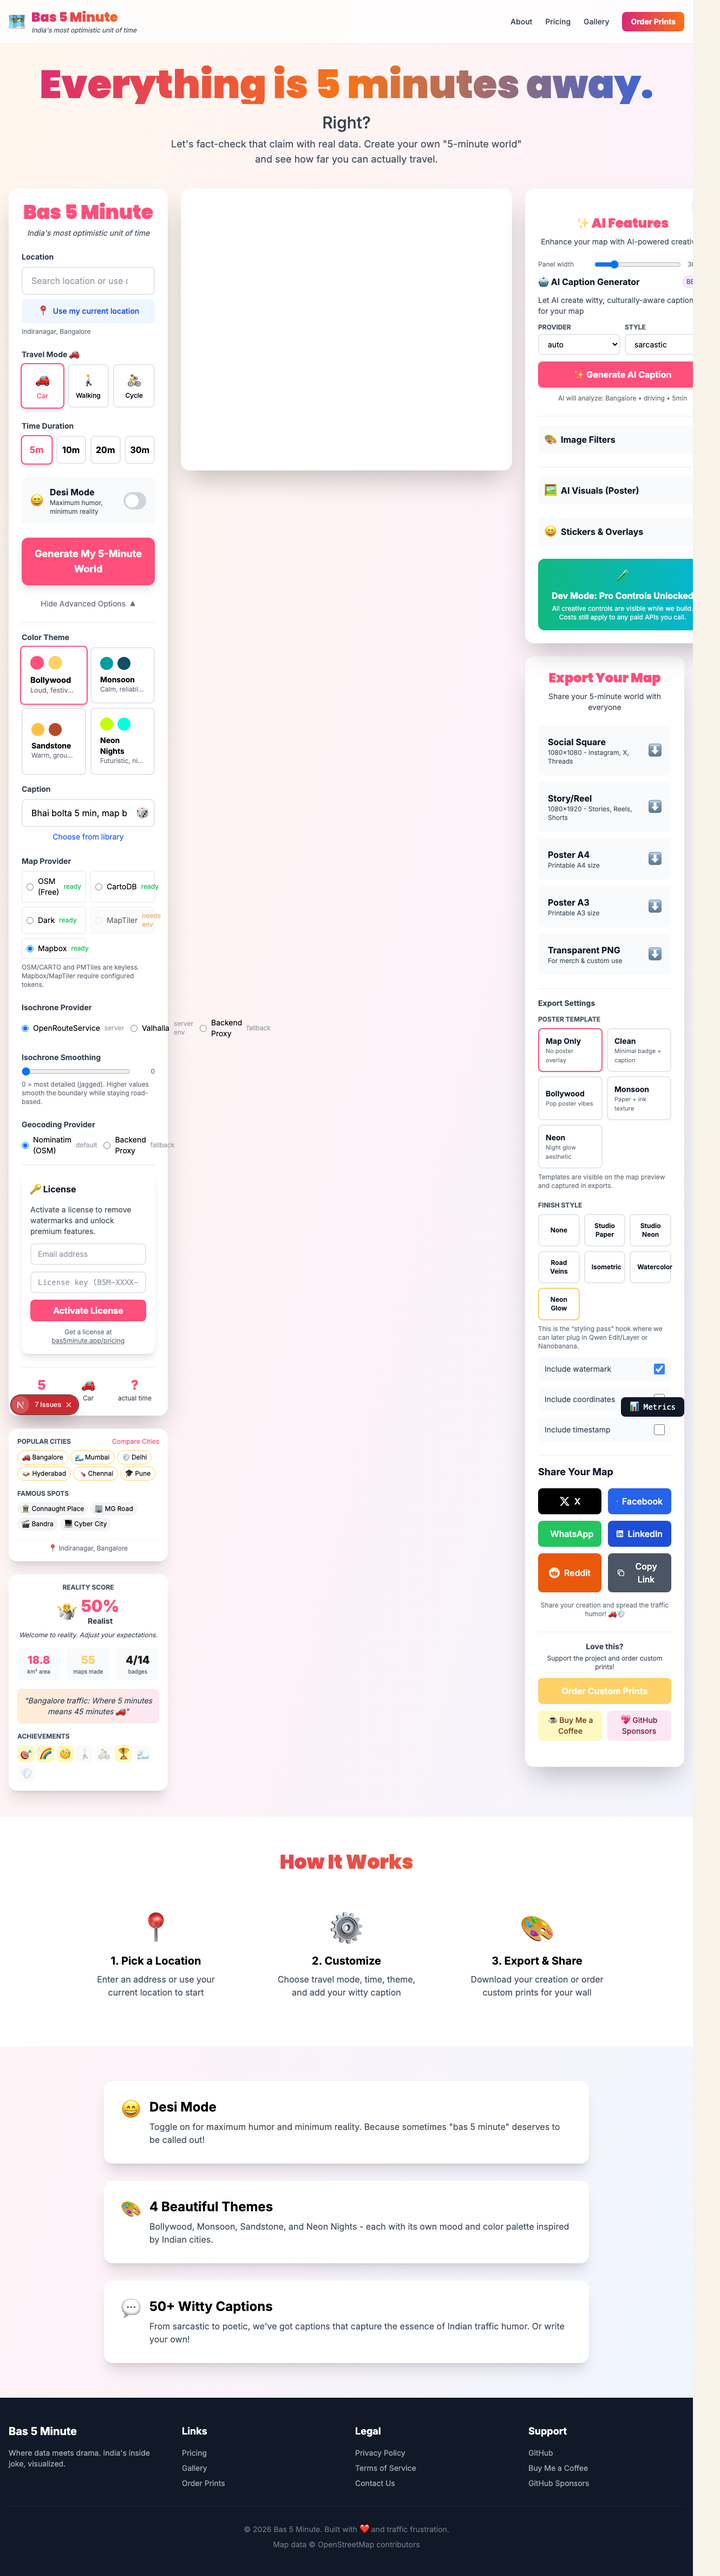
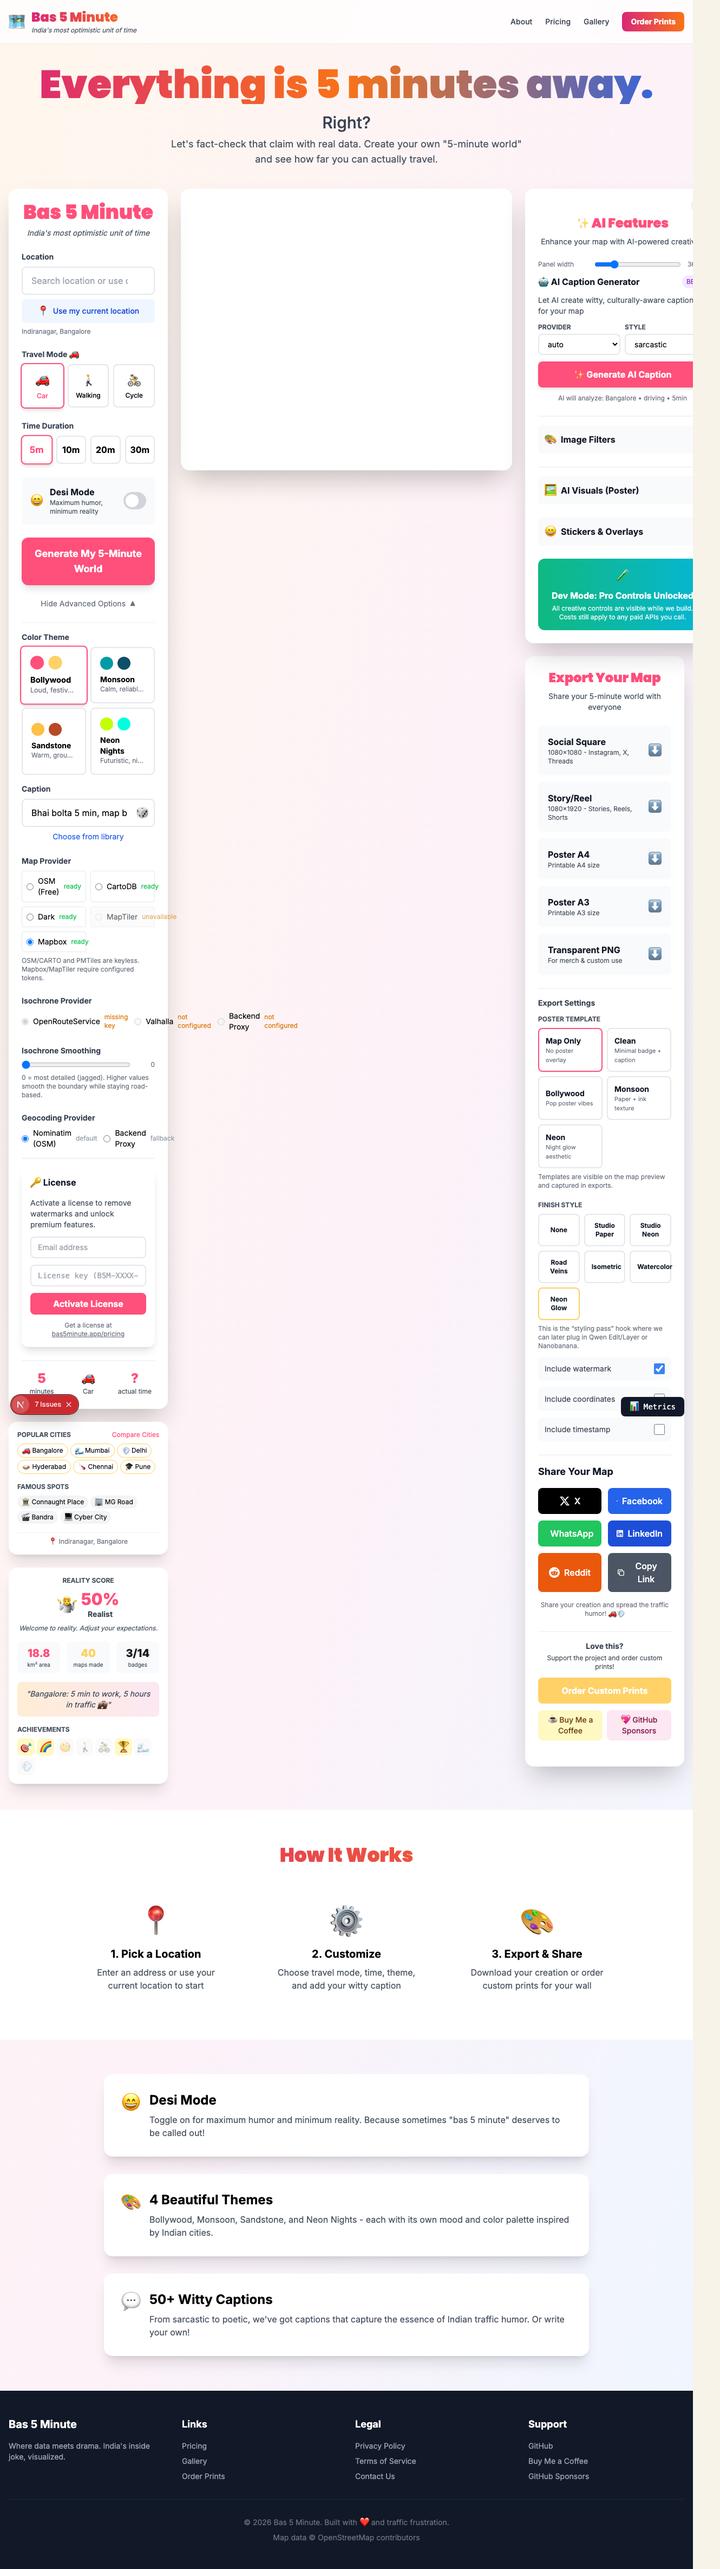
feat: add provider readiness UX, routing primary controls, and env-aware validation CI

diff --git a/components/ControlPanel.tsx b/components/ControlPanel.tsx
@@ -1,6 +1,6 @@
 'use client';
 
-import React, { useState } from 'react';
+import React, { useEffect, useState } from 'react';
 import { useMapContext } from '@/contexts/MapContext';
 import { LocationSearch } from './LocationSearch';
 import { ThemeSelector } from './ThemeSelector';
@@ -36,8 +36,27 @@ export function ControlPanel() {
   } = useMapContext();
 
   const [showAdvanced, setShowAdvanced] = useState(false);
+  const [health, setHealth] = useState<any>(null);
   const colors = getThemeColors(theme);
   const providerConfigs = getProviderConfigs(process.env.NEXT_PUBLIC_PMTILES_URL);
+
+  useEffect(() => {
+    let cancelled = false;
+    const loadHealth = async () => {
+      try {
+        const resp = await fetch('/api/health', { cache: 'no-store' });
+        if (!resp.ok) return;
+        const data = await resp.json();
+        if (!cancelled) setHealth(data);
+      } catch {
+        // keep UI functional even when health endpoint fails
+      }
+    };
+    loadHealth();
+    return () => {
+      cancelled = true;
+    };
+  }, []);
 
   const handleGenerate = async () => {
     if (!location) {
@@ -181,14 +200,8 @@ export function ControlPanel() {
             <label className="block text-sm font-bold text-gray-700">Map Provider</label>
             <div className="grid grid-cols-2 gap-2 text-sm">
               {providerConfigs.map((provider) => {
-                const requiresToken =
-                  provider.tokenEnv === 'NEXT_PUBLIC_MAPBOX_TOKEN'
-                    ? !process.env.NEXT_PUBLIC_MAPBOX_TOKEN
-                    : provider.tokenEnv === 'NEXT_PUBLIC_MAPTILER_KEY'
-                    ? !process.env.NEXT_PUBLIC_MAPTILER_KEY
-                    : false;
-
-                const disabled = provider.requiresToken && requiresToken;
+                const capability = health?.capabilities?.maps?.[provider.id] ?? true;
+                const disabled = !capability;
                 return (
                   <label
                     key={provider.id}
@@ -209,7 +222,7 @@ export function ControlPanel() {
                     />
                     <span>{provider.label}</span>
                     <span className={`text-xs ${disabled ? 'text-amber-600' : 'text-green-500'}`}>
-                      {disabled ? 'needs env' : 'ready'}
+                      {disabled ? 'unavailable' : 'ready'}
                     </span>
                   </label>
                 );
@@ -231,9 +244,12 @@ export function ControlPanel() {
                   value="ors"
                   checked={isoProvider === 'ors'}
                   onChange={() => setIsoProvider && setIsoProvider('ors')}
+                  disabled={!health?.capabilities?.isochrone?.ors}
                 />
                 <span>OpenRouteService</span>
-                <span className="ml-2 text-xs text-gray-400">server</span>
+                <span className={`ml-2 text-xs ${health?.capabilities?.isochrone?.ors ? 'text-green-600' : 'text-amber-600'}`}>
+                  {health?.capabilities?.isochrone?.ors ? 'ready' : 'missing key'}
+                </span>
               </label>
 
               <label className="inline-flex items-center space-x-2">
@@ -243,9 +259,12 @@ export function ControlPanel() {
                   value="valhalla"
                   checked={isoProvider === 'valhalla'}
                   onChange={() => setIsoProvider && setIsoProvider('valhalla')}
+                  disabled={!health?.capabilities?.isochrone?.valhalla}
                 />
                 <span>Valhalla</span>
-                <span className="ml-2 text-xs text-gray-400">server env</span>
+                <span className={`ml-2 text-xs ${health?.capabilities?.isochrone?.valhalla ? 'text-green-600' : 'text-amber-600'}`}>
+                  {health?.capabilities?.isochrone?.valhalla ? 'ready' : 'not configured'}
+                </span>
               </label>
 
               <label className="inline-flex items-center space-x-2">
@@ -255,9 +274,12 @@ export function ControlPanel() {
                   value="backend"
                   checked={isoProvider === 'backend'}
                   onChange={() => setIsoProvider && setIsoProvider('backend')}
+                  disabled={!health?.capabilities?.isochrone?.backend}
                 />
                 <span>Backend Proxy</span>
-                <span className="ml-2 text-xs text-gray-400">fallback</span>
+                <span className={`ml-2 text-xs ${health?.capabilities?.isochrone?.backend ? 'text-green-600' : 'text-amber-600'}`}>
+                  {health?.capabilities?.isochrone?.backend ? 'ready' : 'not configured'}
+                </span>
               </label>
             </div>
           </div>

diff --git a/app/api/isochrone/route.ts b/app/api/isochrone/route.ts
@@ -2,6 +2,8 @@ import { NextRequest, NextResponse } from 'next/server';
 
 const ORS_API_BASE = 'https://api.openrouteservice.org';
 const VALHALLA_URL = 'https://valhalla1.openstreetmap.de/isochrone';
+const ISOCHRONE_PRIMARY = process.env.ISOCHRONE_PRIMARY || 'ors';
+const ALLOW_PUBLIC_VALHALLA_FALLBACK = process.env.ALLOW_PUBLIC_VALHALLA_FALLBACK === '1';
 
 function isFiniteNumber(value: unknown): value is number {
   return typeof value === 'number' && Number.isFinite(value);
@@ -96,36 +98,50 @@ export async function POST(request: NextRequest) {
     const [lng, lat] = locations[0] as [number, number];
     const seconds = range[0] as number;
 
-    // Determine provider priority
     const useProvider = provider || 'auto';
-
-    // Try ORS first (if key available)
-    if ((useProvider === 'auto' || useProvider === 'ors') && orsApiKey) {
-      try {
-        const orsResult = await tryORS(profile, [lng, lat], seconds, smoothingValue, orsApiKey);
-        if (orsResult) {
-          orsResult.provider = 'ors';
-          const res = NextResponse.json(orsResult);
-          res.headers.set('Cache-Control', 's-maxage=600, stale-while-revalidate=60');
-          return res;
-        }
-      } catch (err) {
-        console.warn('[ISOCHRONE] ORS failed, trying fallback:', err);
-      }
+    if (useProvider === 'backend') {
+      return NextResponse.json(
+        { error: 'Use /api/isochrone/backend for backend provider requests' },
+        { status: 400 }
+      );
     }
+    const providerOrder =
+      useProvider === 'ors'
+        ? ['ors']
+        : useProvider === 'valhalla'
+        ? ['valhalla']
+        : ISOCHRONE_PRIMARY === 'valhalla'
+        ? ['valhalla', 'ors']
+        : ['ors', 'valhalla'];
 
-    // Try Valhalla (free, no API key)
-    if (useProvider === 'auto' || useProvider === 'valhalla') {
-      try {
-        const valhallaResult = await tryValhalla(profile, lat, lng, seconds);
-        if (valhallaResult) {
-          valhallaResult.provider = 'valhalla';
-          const res = NextResponse.json(valhallaResult);
-          res.headers.set('Cache-Control', 's-maxage=600, stale-while-revalidate=60');
-          return res;
+    for (const candidate of providerOrder) {
+      if (candidate === 'ors') {
+        if (!orsApiKey) continue;
+        try {
+          const orsResult = await tryORS(profile, [lng, lat], seconds, smoothingValue, orsApiKey);
+          if (orsResult) {
+            orsResult.provider = 'ors';
+            const res = NextResponse.json(orsResult);
+            res.headers.set('Cache-Control', 's-maxage=600, stale-while-revalidate=60');
+            return res;
+          }
+        } catch (err) {
+          console.warn('[ISOCHRONE] ORS failed, trying fallback:', err);
         }
-      } catch (err) {
-        console.warn('[ISOCHRONE] Valhalla failed:', err);
+      }
+
+      if (candidate === 'valhalla') {
+        try {
+          const valhallaResult = await tryValhalla(profile, lat, lng, seconds);
+          if (valhallaResult) {
+            valhallaResult.provider = 'valhalla';
+            const res = NextResponse.json(valhallaResult);
+            res.headers.set('Cache-Control', 's-maxage=600, stale-while-revalidate=60');
+            return res;
+          }
+        } catch (err) {
+          console.warn('[ISOCHRONE] Valhalla failed:', err);
+        }
       }
     }
 
@@ -186,6 +202,19 @@ async function tryValhalla(
   lng: number,
   seconds: number
 ): Promise<any> {
+  const configuredValhalla = process.env.VALHALLA_API_URL || process.env.NEXT_PUBLIC_VALHALLA_URL;
+  const url = configuredValhalla?.trim()
+    ? configuredValhalla.replace(/\/+$/, '').endsWith('/isochrone')
+      ? configuredValhalla.replace(/\/+$/, '')
+      : `${configuredValhalla.replace(/\/+$/, '')}/isochrone`
+    : ALLOW_PUBLIC_VALHALLA_FALLBACK
+    ? VALHALLA_URL
+    : '';
+
+  if (!url) {
+    throw new Error('Valhalla is not configured. Set VALHALLA_API_URL or enable ALLOW_PUBLIC_VALHALLA_FALLBACK=1');
+  }
+
   // Map profile to Valhalla costing
   const costingMap: Record<string, string> = {
     'driving-car': 'auto',
@@ -202,7 +231,7 @@ async function tryValhalla(
     polygons: true,
   };
 
-  const response = await fetch(VALHALLA_URL, {
+  const response = await fetch(url, {
     method: 'POST',
     headers: { 'Content-Type': 'application/json' },
     body: JSON.stringify(payload),

diff --git a/components/AIFeaturesPanel.tsx b/components/AIFeaturesPanel.tsx
@@ -1,6 +1,6 @@
 'use client';
 
-import React, { useState } from 'react';
+import React, { useEffect, useState } from 'react';
 import Image from 'next/image';
 import { useMapContext } from '@/contexts/MapContext';
 import { getThemeColors } from '@/lib/themes';
@@ -37,6 +37,25 @@ export function AIFeaturesPanel() {
   const [visualResults, setVisualResults] = useState<Array<{ dataUrl?: string; text?: string }>>([]);
   const [captionProvider, setCaptionProvider] = useState<'auto' | 'gemini' | 'openai' | 'anthropic' | 'local'>('auto');
   const [captionStyle, setCaptionStyle] = useState<'sarcastic' | 'humorous' | 'poetic' | 'minimal' | 'reality-check'>('sarcastic');
+  const [health, setHealth] = useState<any>(null);
+
+  useEffect(() => {
+    let cancelled = false;
+    const loadHealth = async () => {
+      try {
+        const resp = await fetch('/api/health', { cache: 'no-store' });
+        if (!resp.ok) return;
+        const data = await resp.json();
+        if (!cancelled) setHealth(data);
+      } catch {
+        // keep panel usable without health status
+      }
+    };
+    loadHealth();
+    return () => {
+      cancelled = true;
+    };
+  }, []);
 
   const handleStickerClick = (sticker: Sticker) => {
     const placement: StickerPlacement = {
@@ -228,11 +247,18 @@ export function AIFeaturesPanel() {
                   className="w-full px-3 py-2 border-2 border-gray-200 rounded-lg focus:border-blue-400 focus:outline-none transition text-sm bg-white"
                 >
                   {captionProviders.map((p) => (
-                    <option key={p} value={p}>
+                    <option
+                      key={p}
+                      value={p}
+                      disabled={p !== 'auto' && p !== 'local' && !(health?.capabilities?.aiCaption?.[p] ?? true)}
+                    >
                       {p}
                     </option>
                   ))}
                 </select>
+                {captionProvider !== 'auto' && captionProvider !== 'local' && !(health?.capabilities?.aiCaption?.[captionProvider] ?? true) && (
+                  <p className="text-[11px] text-amber-600">Selected provider is not configured</p>
+                )}
               </div>
 
               <div className="space-y-1">

diff --git a/app/api/health/route.ts b/app/api/health/route.ts
@@ -1,23 +1,51 @@
 import { NextResponse } from 'next/server';
 
 export async function GET() {
+  const services = {
+    mapbox: !!process.env.NEXT_PUBLIC_MAPBOX_TOKEN,
+    maptiler: !!process.env.NEXT_PUBLIC_MAPTILER_KEY,
+    pmtiles: !!process.env.NEXT_PUBLIC_PMTILES_URL,
+    ors: !!process.env.ORS_API_KEY,
+    valhalla: !!(process.env.VALHALLA_API_URL || process.env.NEXT_PUBLIC_VALHALLA_URL),
+    openai: !!process.env.OPENAI_API_KEY,
+    anthropic: !!process.env.ANTHROPIC_API_KEY,
+    huggingface: !!process.env.HF_TOKEN,
+    stripe: !!process.env.STRIPE_SECRET_KEY,
+  };
+
+  const capabilities = {
+    maps: {
+      'osm-raster': true,
+      'carto-voyager': true,
+      'carto-dark': true,
+      maptiler: services.maptiler,
+      mapbox: services.mapbox,
+      'protomaps-pmtiles': services.pmtiles,
+    },
+    isochrone: {
+      ors: services.ors,
+      valhalla: services.valhalla,
+      backend: !!process.env.BACKEND_API_URL,
+      fallbackBuffer: true,
+    },
+    aiCaption: {
+      auto: true,
+      local: true,
+      gemini: !!process.env.GEMINI_API_KEY,
+      openai: services.openai,
+      anthropic: services.anthropic,
+      huggingface: services.huggingface,
+    },
+  };
+
   const health = {
     status: 'ok',
     timestamp: new Date().toISOString(),
     uptime: process.uptime(),
     version: process.env.npm_package_version || '1.0.0',
     environment: process.env.NODE_ENV,
-    services: {
-      mapbox: !!process.env.NEXT_PUBLIC_MAPBOX_TOKEN,
-      maptiler: !!process.env.NEXT_PUBLIC_MAPTILER_KEY,
-      pmtiles: !!process.env.NEXT_PUBLIC_PMTILES_URL,
-      ors: !!process.env.ORS_API_KEY,
-      valhalla: !!(process.env.VALHALLA_API_URL || process.env.NEXT_PUBLIC_VALHALLA_URL),
-      openai: !!process.env.OPENAI_API_KEY,
-      anthropic: !!process.env.ANTHROPIC_API_KEY,
-      huggingface: !!process.env.HF_TOKEN,
-      stripe: !!process.env.STRIPE_SECRET_KEY,
-    },
+    services,
+    capabilities,
   };
 
   return NextResponse.json(health, {

diff --git a/tools/README.md b/tools/README.md
@@ -31,6 +31,12 @@ node tools/validation-matrix.mjs
 BASE_URL=http://localhost:5111 node tools/validation-matrix.mjs
 ```
 
+4. Optional strict mode (treat all failures as blocking):
+
+```bash
+VALIDATION_STRICT=1 node tools/validation-matrix.mjs
+```
+
 ### Artifacts
 
 - `tools/validation-home.png`: full-page screenshot taken during validation.
@@ -43,4 +49,4 @@ BASE_URL=http://localhost:5111 node tools/validation-matrix.mjs
 npx playwright install chromium
 ```
 
-- Some checks are environment-dependent (for example provider credentials and quotas). The report marks these clearly in pass/fail output.
+- Environment-dependent checks are reported as `SKIP` when capabilities are not configured (for example missing provider credentials).
